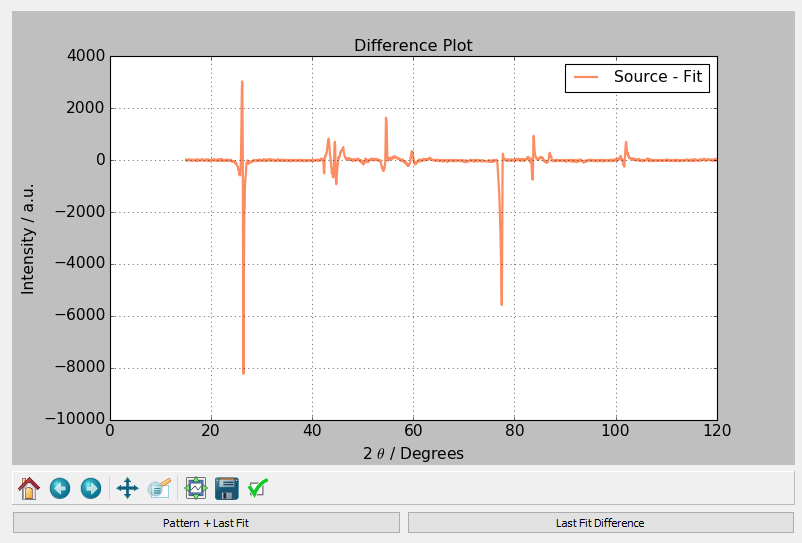
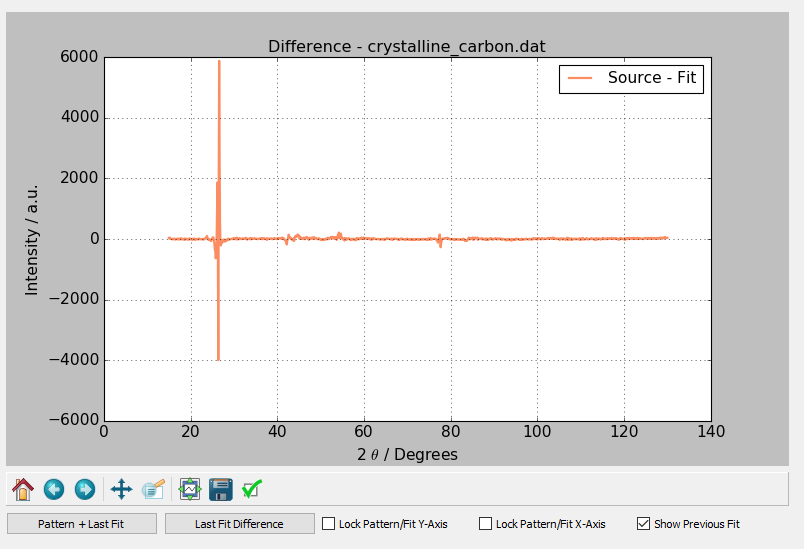
Added information about the lock axes and show previous fit options to tutorial

Changed region(s): [[0.0, 0.0, 0.9975, 0.9724]]

diff --git a/docs/tutorial.html b/docs/tutorial.html
@@ -180,7 +180,7 @@
                
                 <div class='well'><p><a href="img/fit_complete.png"><img src="img/fit_complete.png" class="img-responsive"  alt="Plot of an XRD pattern and its fit."/></a> <a href="img/difference.png"><img src="img/difference.png" class="img-responsive"  alt="Fit difference plot."/></a></p></div>
                 <p>After the fit or calculation has been successfully completed, a plot of the calculated pattern and the original data is displayed. Pressing the <strong>Last Fit Difference</strong> button under the graph causes the most recent fit's difference trace to be plotted.
-                Pressing the <strong>Pattern + Last Fit</strong> button causes the currently loaded pattern and the most recently fit or calculated pattern to be displayed.</p>
+                Pressing the <strong>Pattern + Last Fit</strong> button causes the currently loaded pattern and the most recently fit or calculated pattern to be displayed. The options <strong>Lock Pattern/Fit Y-Axis</strong> and <strong>Lock Pattern/Fit X-Axis</strong> are used to lock the Y and X axes respectively.  The <strong>Show Previous Fit</strong> button will show the previous fit or calculation as a dashed line on the fit plot.</p>
                 
                 
                 <p><img src="img/export_results.png" class="img-responsive center-block" alt="Export Results Message"/></p>
